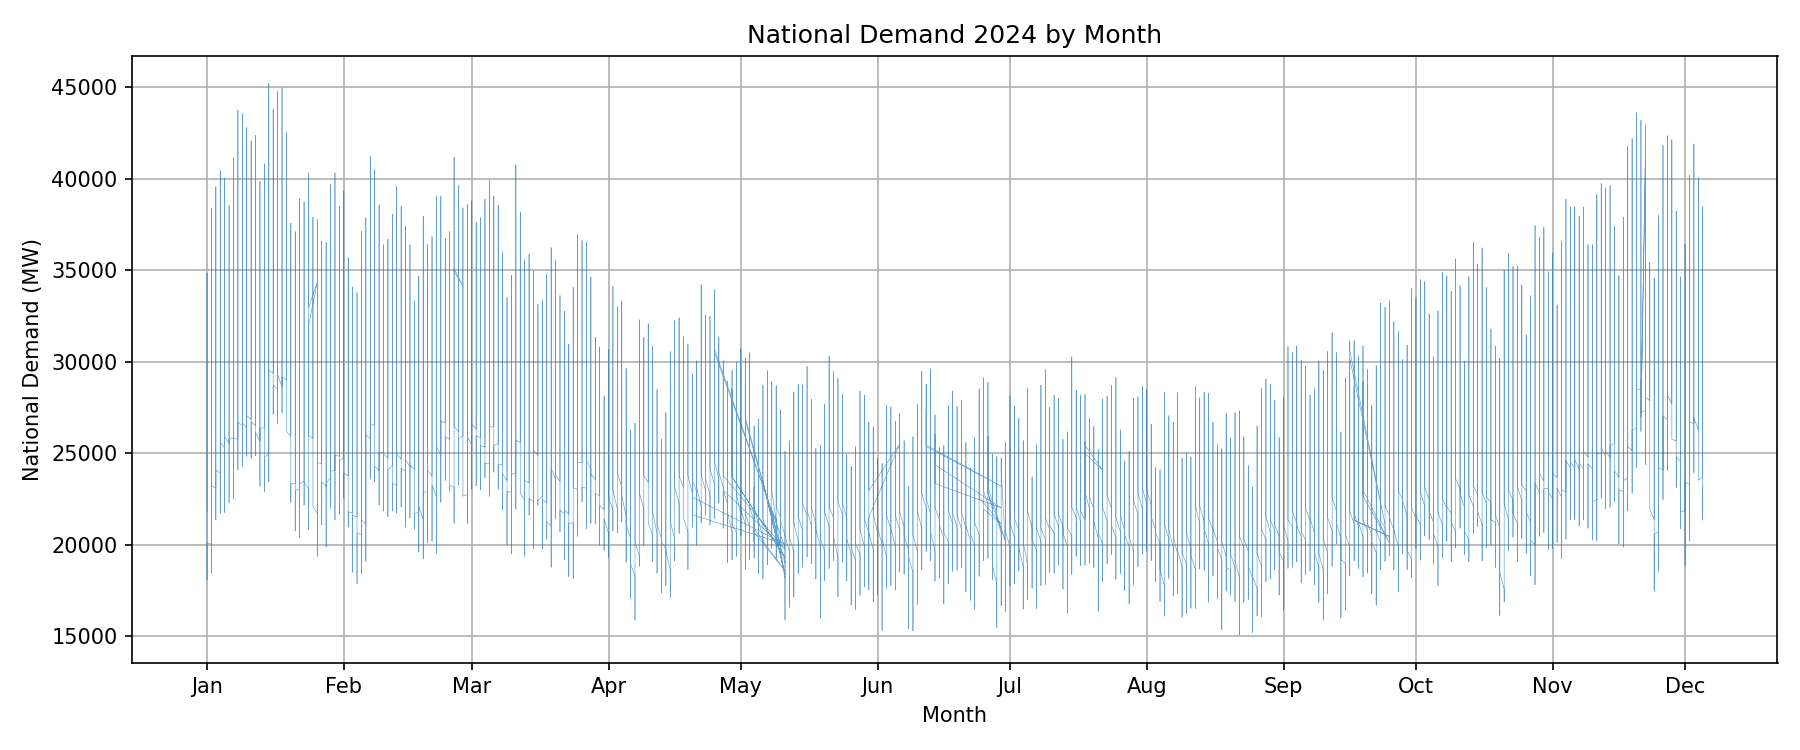
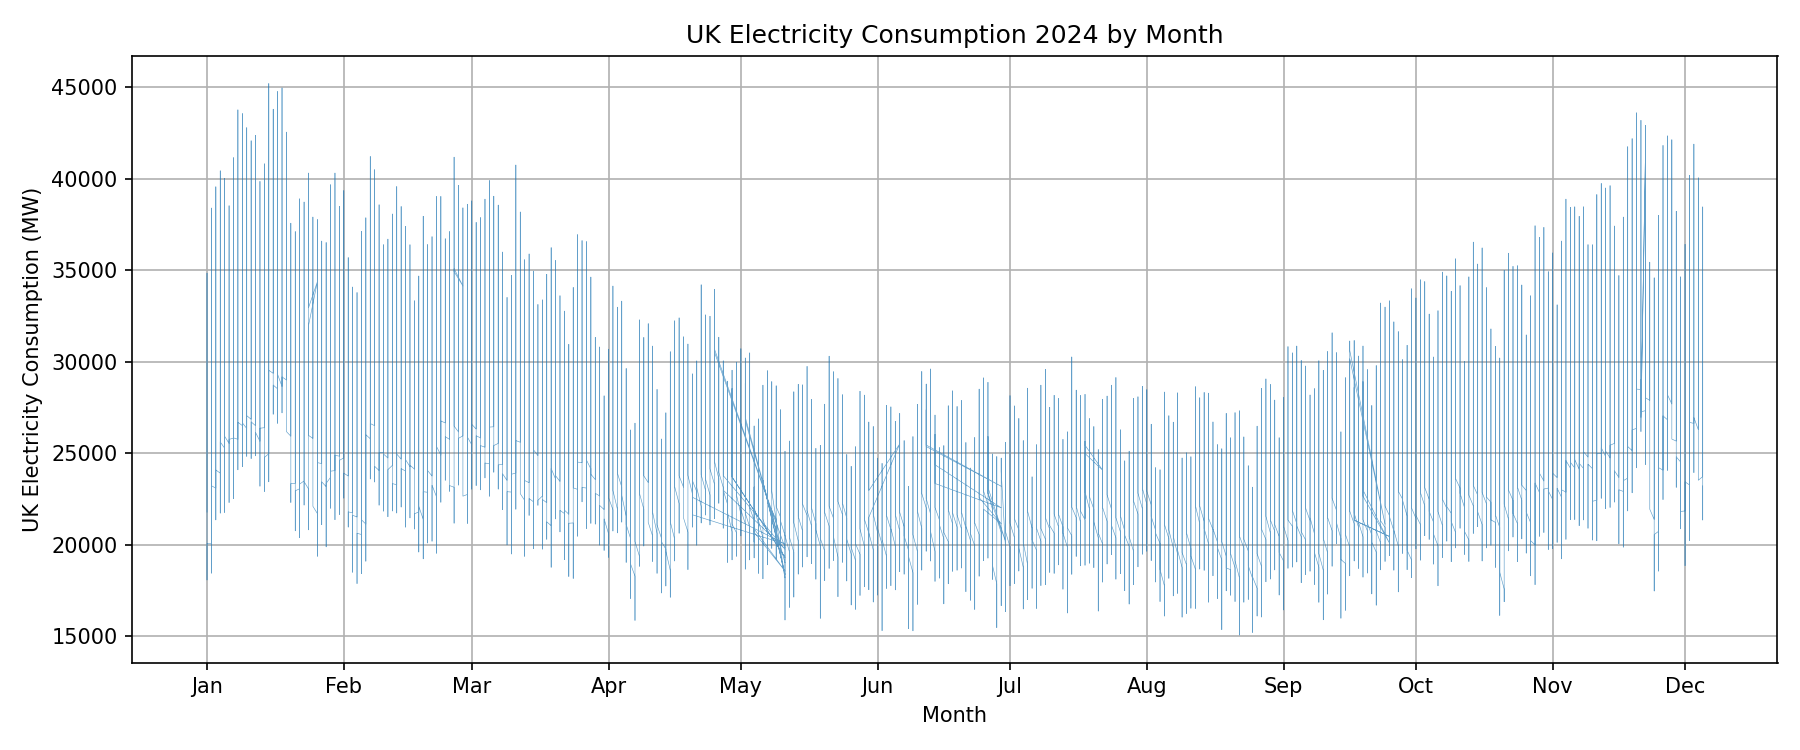
Add code to plot the data.

diff --git a/plot_demand.py b/plot_demand.py
@@ -6,8 +6,8 @@ df = pd.read_csv("data/input/historic_demand_2009_2024.csv", parse_dates=["settl
 plt.figure(figsize=(14, 5))
 plt.plot(df["settlement_date"], df["nd"], linewidth=0.3, alpha=0.7)
 plt.xlabel("Year")
-plt.ylabel("National Demand (MW)")
-plt.title("National Demand 2009–2024")
+plt.ylabel("UK Electricity Consumption (MW)")
+plt.title("UK Electricity Consumption 2009–2024")
 plt.grid(True)
 plt.tight_layout()
 plt.savefig("data/output/demand_by_year.png", dpi=150)
@@ -18,8 +18,8 @@ df2024 = pd.read_csv("data/input/historic_demand_year_2024.csv", parse_dates=["s
 plt.figure(figsize=(12, 5))
 plt.plot(df2024["settlement_date"], df2024["nd"], linewidth=0.3, alpha=0.7)
 plt.xlabel("Month")
-plt.ylabel("National Demand (MW)")
-plt.title("National Demand 2024 by Month")
+plt.ylabel("UK Electricity Consumption (MW)")
+plt.title("UK Electricity Consumption 2024 by Month")
 plt.xticks(
     ticks=pd.date_range("2024-01-01", periods=12, freq="MS"),
     labels=["Jan","Feb","Mar","Apr","May","Jun","Jul","Aug","Sep","Oct","Nov","Dec"],
